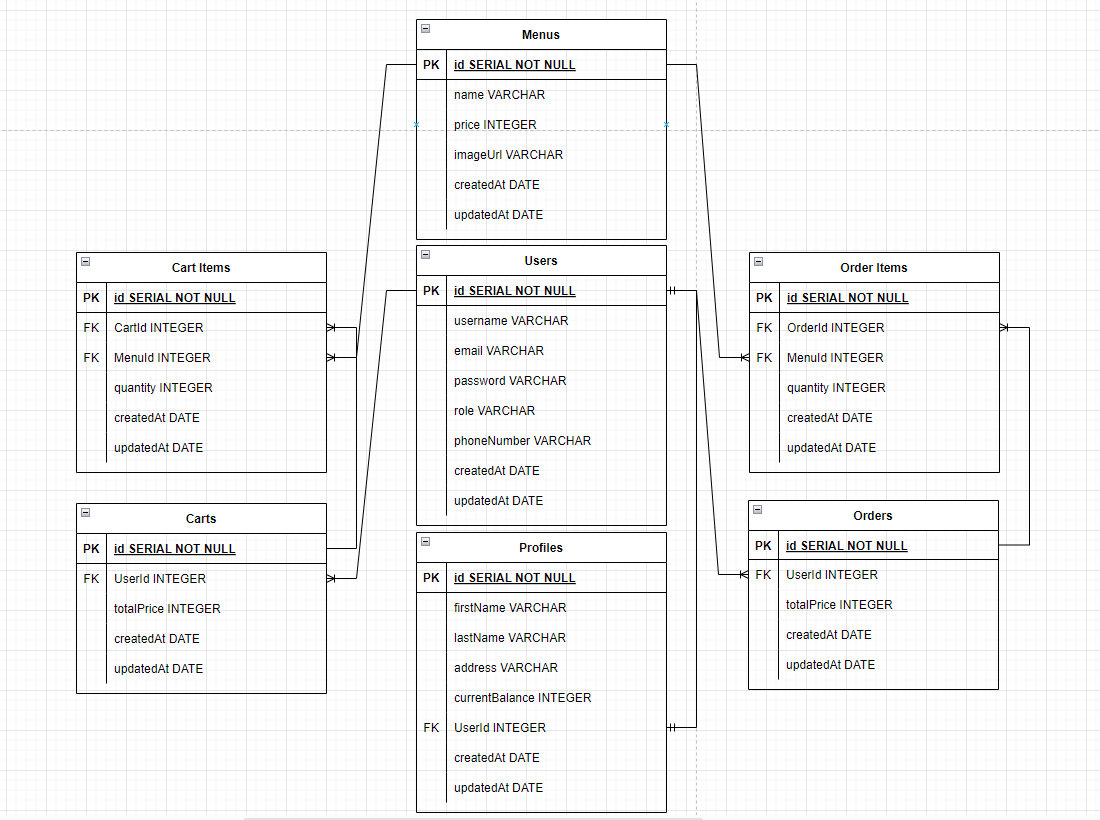
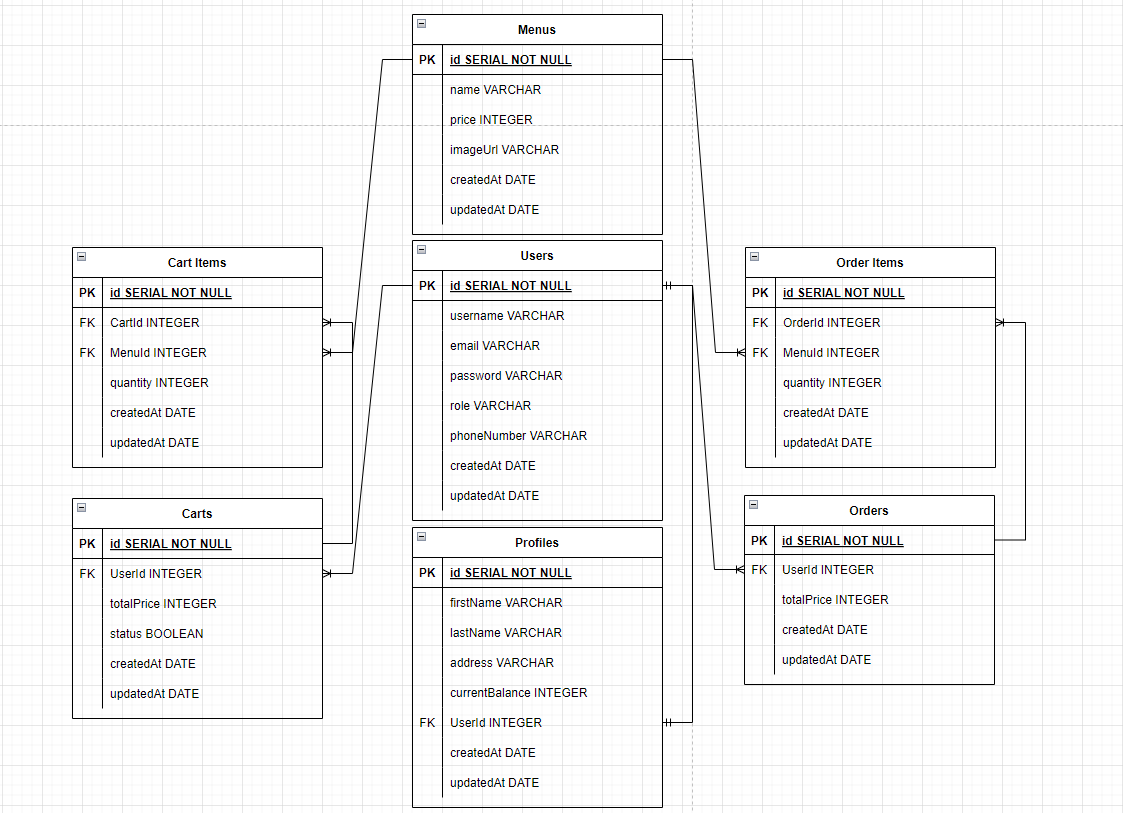
feat: show cust carts and add status field to cart migration n model

diff --git a/middlewares/userAuthentication.js b/middlewares/userAuthentication.js
@@ -1,0 +1,31 @@
+const { decodeToken } = require("../helpers/jwtEncoderDecoder");
+const { User } = require("../models");
+
+const userAuthentication = async (req, res, next) => {
+    try {
+        const { access_token } = req.headers;
+
+        if (!access_token) {
+            throw { name: "AccessTokenMissing" };
+        }
+
+        const payload = decodeToken(access_token);
+        const userData = await User.findByPk(payload.id);
+
+        if (!userData) {
+            throw { name: "InvalidToken" };
+        }
+
+        req.user = {
+            id: userData.id,
+            role: userData.role,
+            email: userData.email   
+        }
+
+        next();
+    } catch (error) {
+        next(error);
+    }
+};
+
+module.exports = userAuthentication;

diff --git a/controllers/cartController.js b/controllers/cartController.js
@@ -1,4 +1,28 @@
+const { Cart, CartItem, Menu } = require("../models");
+
 class CartController {
+
+    static async showCustomerCarts(req, res, next) {
+        try {
+            const UserId = req.user.id;
+            const customerCart = await Cart.findAll({
+                where: { 
+                    UserId,
+                    status: false
+                 },
+                include: [
+                    {
+                        model: CartItem,
+                        include: [{ model: Menu }]
+                    },
+                ],
+            });
+
+            res.status(200).json(customerCart);
+        } catch (error) {
+            next(error);
+        }
+    }
 
 }
 

diff --git a/routes/index.js b/routes/index.js
@@ -5,11 +5,12 @@ const menusRouter = require('./menus')
 const cartsRouter = require('./carts')
 const orderRouter = require('./orders')
 const errorHandler = require('../middlewares/errorHandler')
+const userAuthentication = require('../middlewares/userAuthentication')
 
-router.use('/users', usersRouter)
-router.use('/menus', menusRouter)
-router.use('/carts', cartsRouter)
-router.use('/orders', orderRouter)
+router.use(usersRouter)
+router.use(menusRouter)
+router.use('/', userAuthentication, cartsRouter)
+router.use('/', userAuthentication, orderRouter)
 
 router.use(errorHandler)
 

diff --git a/middlewares/errorHandler.js b/middlewares/errorHandler.js
@@ -20,6 +20,15 @@ const errorHandler = (error, req, res, next) => {
             status = 401;
             message = "Invalid Email or Password";
             break;
+        case "AccessTokenMissing":
+            status = 400;
+            message = "Access required, please sign in first!";
+            break;
+        case "InvalidToken":
+        case "JsonWebTokenError":
+            status = 401;
+            message = "Invalid Token";
+            break;
     }
 
     res.status(status).json({ message });

diff --git a/migrations/20230602110041-add-field-status-to-carts.js b/migrations/20230602110041-add-field-status-to-carts.js
@@ -1,0 +1,15 @@
+'use strict';
+
+/** @type {import('sequelize-cli').Migration} */
+module.exports = {
+  async up (queryInterface, Sequelize) {
+    await queryInterface.addColumn('Carts', 'status', {
+      type : Sequelize.BOOLEAN,
+      defaultValue : false
+    })
+  },
+
+  async down (queryInterface, Sequelize) {
+    await queryInterface.removeColumn('Carts', 'status',{})
+  }
+};

diff --git a/models/cart.js b/models/cart.js
@@ -24,6 +24,11 @@ module.exports = (sequelize, DataTypes) => {
       type: DataTypes.INTEGER,
       allowNull: false,
     },
+    status: {
+      type: DataTypes.BOOLEAN,
+      allowNull: false,
+      defaultValue: false,
+    },
   }, {
     sequelize,
     modelName: 'Cart',

diff --git a/routes/menus.js b/routes/menus.js
@@ -3,6 +3,6 @@ const router = express.Router();
 const MenuController = require('../controllers/menuController');
 
 // Show All Menus Endpoint
-router.get('/', MenuController.showAllMenus)
+router.get('/menus', MenuController.showAllMenus)
 
 module.exports = router;

diff --git a/routes/carts.js b/routes/carts.js
@@ -2,5 +2,8 @@ const express = require("express");
 const router = express.Router();
 const CartController = require('../controllers/cartController');
 
+router.get('/carts', CartController.showCustomerCarts)
+
+
 
 module.exports = router;

diff --git a/controllers/menuController.js b/controllers/menuController.js
@@ -9,7 +9,7 @@ class MenuController {
         } catch (error) {
             next(error);
         }
-      }
+    }
 }
 
 module.exports = MenuController;
